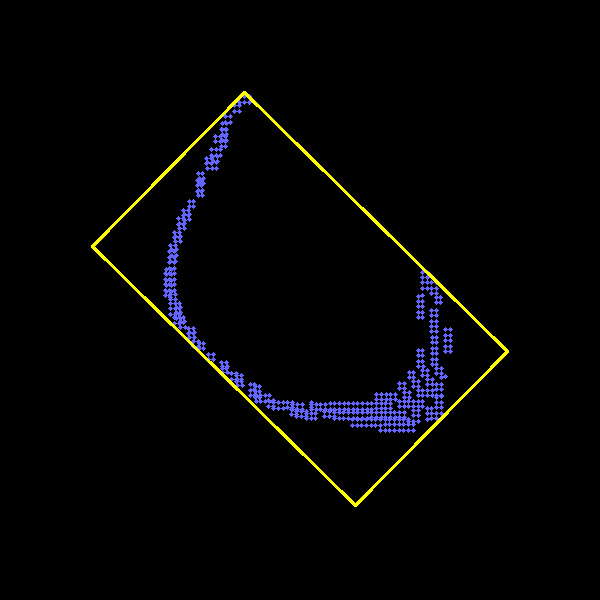
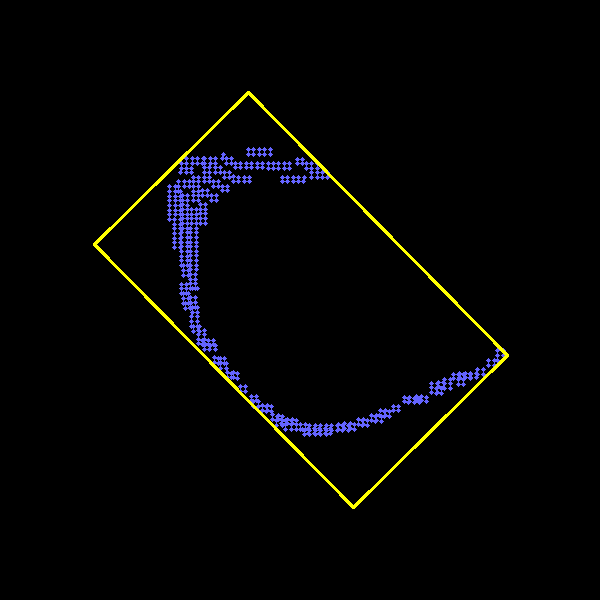
Show the demo as an inline GIF, orient the rectangle fit as in the thesis
GitHub does not play MP4 files stored in a repository, so the demo is now
a side-by-side GIF at 4x speed, with the full-length videos linked for
download. The rectangle-fit figure is rotated and mirrored the same way
the thesis displays it. The vision node options table is removed.

Changed region(s): [[0.39, 0.45, 0.87, 0.84], [0.15, 0.15, 0.57, 0.63]]

diff --git a/README.md b/README.md
@@ -14,11 +14,13 @@ The policy was trained only in simulation and deployed on the real robot without
 
 ## Demo
 
-| Robot point of view (RViz) | External point of view |
-| :---: | :---: |
-| [<img src="media/deployment_rviz.jpg" width="420">](media/deployment_rviz.mp4) | [<img src="media/deployment_external.jpg" width="315">](media/deployment_external.mp4) |
+<p align="center">
+  <img src="media/deployment.gif" alt="Pick-and-place on the real TIAGo Pro, RViz view and external camera side by side">
+</p>
 
-Click a thumbnail to play the video; the two clips are synchronized. In RViz, the green dot is the detected object, the orange dot means the object is grasped and the red dot is the release point.
+A run on the real robot at 4× speed. Left: the robot's view in RViz, with the head-camera image and the 3D scene. Right: an external camera. In RViz, the green dot is the detected object, the orange dot means the object is grasped and the red dot is the release point.
+
+Full-length videos at real speed (MP4 download): [RViz view](media/deployment_rviz.mp4?raw=true), [external view](media/deployment_external.mp4?raw=true).
 
 ## Where the code lives
 
@@ -139,23 +141,6 @@ python3 src/yolo_depth_pose_hsv.py \
 ```
 
 `--pose_offset` adds a constant correction to the estimated position, which is useful to compensate for arm calibration errors. The pick-and-place policies were trained with goal positions around (0.72, -0.716, 0.60) m in `base_footprint`.
-
-### Vision node options
-
-| Option | Default | Description |
-| --- | --- | --- |
-| `--yolo_model` | `tiago_single_class_yolo26/weights/best.pt` | Detector weights |
-| `--yolo_conf` | `0.45` | Minimum detection confidence |
-| `--parent_frame` | `base_footprint` | Frame of the published pose |
-| `--depth_topic` | `/head_front_camera/aligned_depth_to_color/image_raw` | Aligned depth topic |
-| `--depth_gazebo` | off | Use the Gazebo depth topic `/head_front_camera/depth/image_rect_raw` |
-| `--hsv_thresh H S V` | `100 100 80` | Colour tolerances for the segmentation |
-| `--max_depth` | `2.5` | Maximum valid depth (m) |
-| `--pose_offset X Y Z` | `0 0 0` | Constant offset added to the position (m) |
-| `--goal_position X Y Z` | `0.72 -0.716 0.60` | Release point published on `/goal_position` (m) |
-| `--yaw DEG` | none | Publish a fixed yaw instead of the estimated one |
-| `--debug_save_dir DIR` | none | Save one set of debug images: annotated frame, crop, colour mask, depth inliers, rectangle fit |
-| `--no_show_obb` | | Do not draw the fitted rectangle on the annotated image |
 
 ## Training the detector
 
